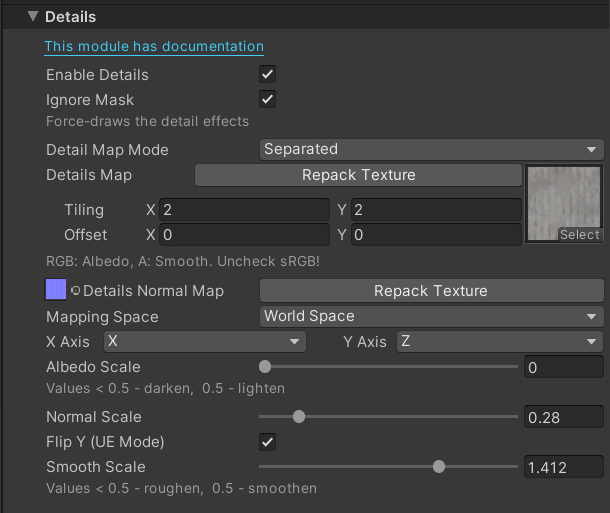
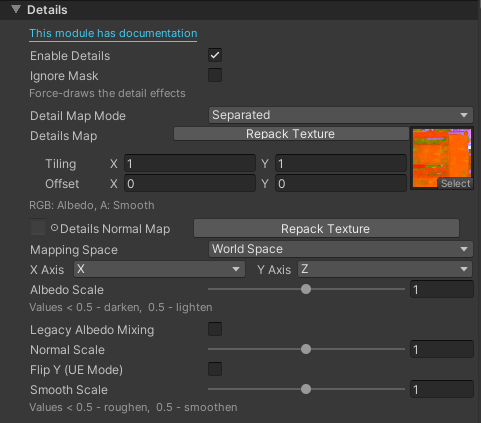
updated docs for 6.4.0

diff --git a/src/components/Layout.jsx b/src/components/Layout.jsx
@@ -246,7 +246,7 @@ export function Layout({ children, title, tableOfContents }) {
       <Banner
         title="Version 6.4.0 is out!"
         bannerKey="v6.4.0"
-        description="Hotspotting, in-shader Tonemapping, and bug fixes!"
+        description="Hotspotting, in-shader Tonemapping, vertex lights, and bug fixes!"
         cta="Get it now"
         ctaLink="/docs/installation"
         changelogLink="/docs/changelog"

diff --git a/src/pages/docs/orl-standard/base-shader.md b/src/pages/docs/orl-standard/base-shader.md
@@ -95,9 +95,10 @@ Details section allows adding extra variety to the surface with its own set of m
 - Mapping Space: Allows you to select between UV-mapped and Local Space/World Space aligned textures, which is useful for flat surfaces like Floors or Ceilings
   - UV: Uses the first UV channel to display the texture
   - Local Space: uses local coordinates on the provided X and Y axis to display the texture
-  - World Space: uses world coordinates on the provided X and Y axis to display the texture (useful for maintaining constant scale among many meshes)
+  - World Space: uses world coordinates on the provided X and Y axis to display the texture (useful for maintaining constant scale among many meshes).
 - X Axis and Y Axis: Only visible when **Mapping Space** is not in UV mode. Allows to select which axis (X/Y/Z) to use for displaying the texture
 - Albedo Scale: Used to brighten and darken the texture, as only one channel is available. Values below 0.5 - darken, and above 0.5 - lighten the original **Albedo**.
+- Legacy Albedo Mixing: Enables the legacy mixing mode, similar to Unity Standard Shader. This multiplies the main Albedo by Detail Albedo * 2. Only available when **Detail Map Mode** is set to **Separated**.
 - Normal Scale: Controls the strength of the detail normal.
 - Flip Y (UE Mode): Flips the Green channel of the detail normals. Allows the usage of DirectX normal maps, like the ones in the assets for Unreal Engine
 - Smooth Scale: Allows to offset the smoothness using the details map. Values below 0.5 - make the surface more rough, above 0.5 - make it more smooth
@@ -141,6 +142,17 @@ Details section allows adding extra variety to the surface with its own set of m
   - On: Enables depth writing. As a rule of thumb - all opaque/cutout objects should write to depth
   - Off: Disables depth writing, used for transparency
 - Depth Test: Controls how the depth testing is performed, you generally never need to change this
+- Enable Vertex Lights: Allows objects to receive lighting from non-important lights. Please note that only dynamic objects will receive such lighting. This is a Unity limitation.
+  
+### Stencils
+
+For more information on stencils - [check out the Unity Docs](https://docs.unity3d.com/Manual/SL-Stencil.html)
+
+- Reference: Sets the stencil reference value to use with the Various Operations
+- Comparison: Controls the comparison mode, common values: Always, Equal, NotEqual
+- Pass Operation: Controls what happens when the stencil comparison passes. Common values: Keep, Replace, Zero
+- Fail Operation: Controls what happens when the stencil comparison fails. Common values: Keep, Replace, Zero
+- ZFail Operation: Controls what happens when the stencil comparison passes but the depth test fails. Common values: Keep, Replace, Zero
 
 ### GSAA
 
@@ -157,6 +169,10 @@ GSAA, or Geometric Specular Anti Aliasing, helps avoid severe specular aliasing 
 - Non-Linear Lightprobe SH: Enables higher quality lightprobe sampling which is more accurate and behaves much better in high-intensity lighting scenarios. Is recommended for use on PC platforms, but might be fairly expensive on mobile.
 - Force Box Projection: Enables support for Box Projected reflection probes on platforms that do not support it natively, e.g. Android (Oculus Quest). This is fairly expensive for mobile hardware, so use it sparingly
 - Apply Mobile Color Correction: Enables color correction for mobile devices. As mobile platforms lack Post-Processing, it is often beneficial to use in-shader tone mapping to bring the look of your worlds closer to the Desktop version.
+  - Mobile Tonemapping Mode: Controls which algorithm to use for the color correction
+    - ACES: The default option and the most common tonemapper: ACES. Often produces results close to the Post Processing's ACES Tonemapper
+    - Unreal: The Unreal 3's ACES approximation. Faster to run but doesn't look as good
+    - Uncharted: The Uncharted 2's Filmic tonemapper approximation. It is also faster than ACES, but slower than Unreal
   - Lift: The black point of the color correction
   - Gamma: The gamma of the color correction
   - Gain: The white point of the color correction
@@ -167,6 +183,7 @@ GSAA, or Geometric Specular Anti Aliasing, helps avoid severe specular aliasing 
 
 - Non-Linear Lightprobe SH: Enables higher quality lightprobe sampling which is more accurate and behaves much better in high-intensity lighting scenarios. Is recommended for use on PC platforms, but might be fairly expensive on mobile.
 - Specular Occlusion: Controls the amount of Specular Occlusion applied to the material. This helps limit the amount of "unity shine" which is often present on metallic surfaces (see comparison below). This applies to both lightmapped and non-lightmapped objects
+- Realtime Shadow Specular Occlusion: Controls the amount of Specular Occlusion driven by the Realtime Shadows. This effect is not physically accurate but it can be useful to tame the strong specular on dynamically lit objects.
 - Specular Roughness Mod: Allows you to influence the roughness of Baked Specular, which can sometimes be too intensive due to imperfections of Baked Specular direction
 - Bicubic Sampling: Dramatically increases quality of the baked shadows, especially on the lower resolution lightmaps at a fairly small performance hit
 - Baked Specular: Toggles the display of baked specular. Only relevant when using some kind of Directional lightmap, e.g., Dominant Direction or Bakery's RNM or SH.

diff --git a/src/pages/docs/changelog.md b/src/pages/docs/changelog.md
@@ -7,6 +7,40 @@ ORL Shaders Changelog
 
 ---
 
+## v6.4.0
+
+### Summary
+
+Update 6.4.0 focuses on improving the current feature set, quality-of-life changes, and fixing bugs
+
+### New Shaders
+
+- **PBR**
+  - [Hotspotting](/docs/orl-standard/hotspotting): An auto-hotspotting shader that can be used to quickly set up reusable hotspot materials
+
+### New Features
+
+- Standard-Based shaders can now adjust Stencil parameters
+- You can now occlude baked specular via Realtime Shadows. This effect is not physically accurate but can be helpful when used on dynamic objects
+- Vertex Lights now properly light up objects using Standard shaders. This requires enabling vertex lighting in Advanced Settings
+- You can now apply in-shader tonemapping on mobile platforms. This can drastically improve the look of your environments on Quest/Android. [See the full docs here](/docs/orl-standard/base-shader/#other-advanced-options)
+- Toon shader now fully sports baking. Recommended to be used with a directional lightmap for best results
+- Toon shader now has support for vertex-color masking of outline thickness
+- Toon shader can now use outlines without stencil. This can be useful for adding extra detail
+- LTCGI effect brightness can now be clamped to a 0-1 range and has a Maximum Brightness setting
+- You can now use BIRP Standard shader-style Detail Albedo mixing. This can be toggled via "Legacy Albedo Mixing" when using the Separated Detail Map mode.
+
+### Bugfixes
+
+- The tangent normals sign is now properly calculated per-vertex. This should not affect most users
+- Specular occlusion now properly occludes reflection probes again. You might need to tune the Specular Occlusion slider to adjust the effect
+- Fixed off-by-one errors in the channel selector for Albedo and Emission textures
+- Shader tags are now de-duplicated automatically, this can help with some issues with Bakery Lightmapper
+
+### Other Changes
+
+- The channel packer will now default Alpha channel slot to read from the Red channel, as that is the most common use-case
+
 ## v6.3.0
 
 ### Summary
